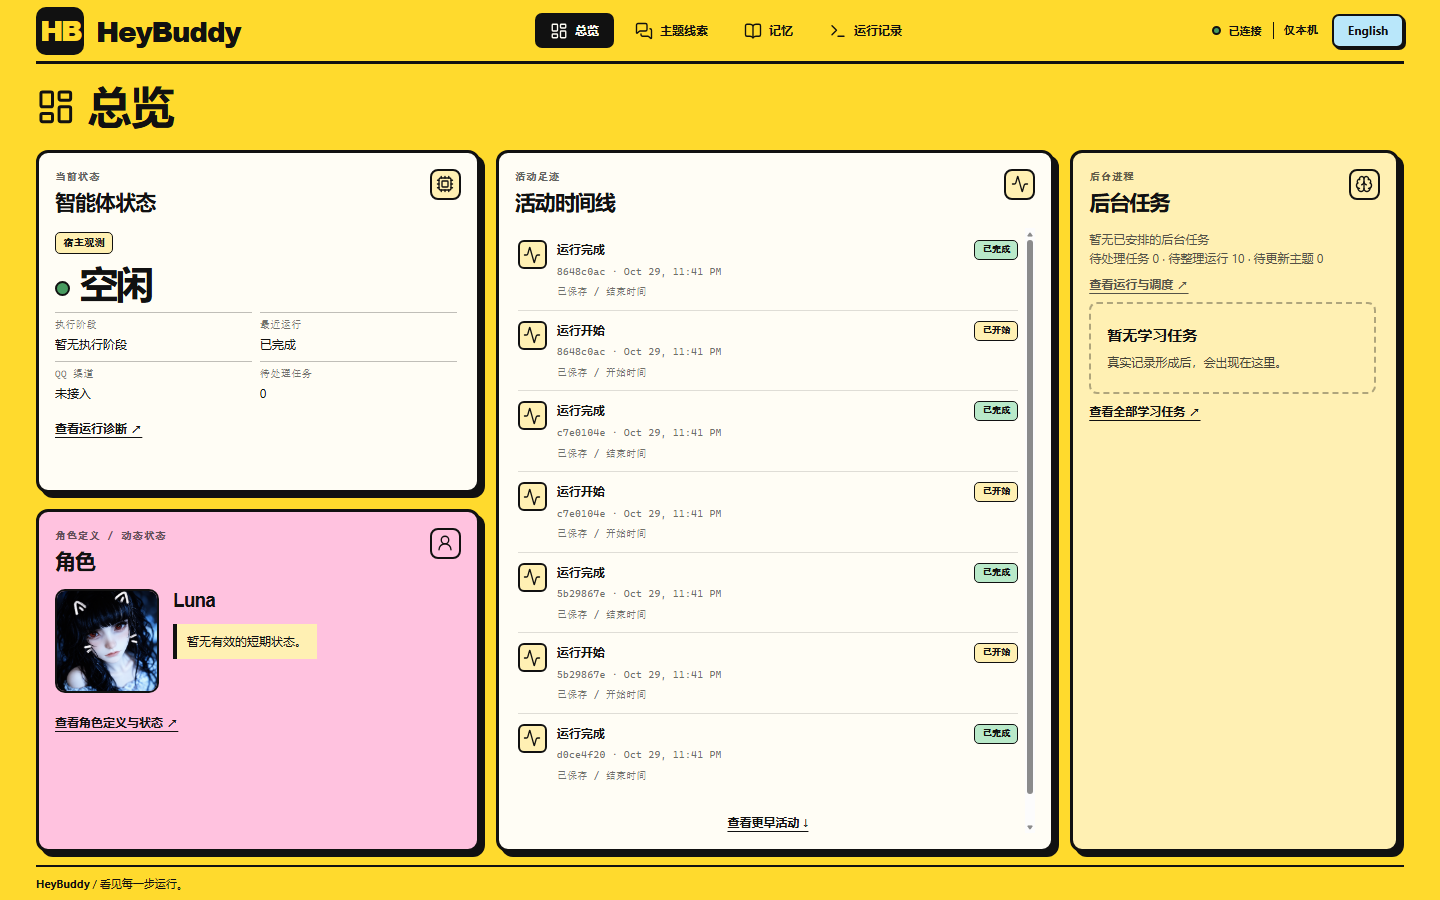
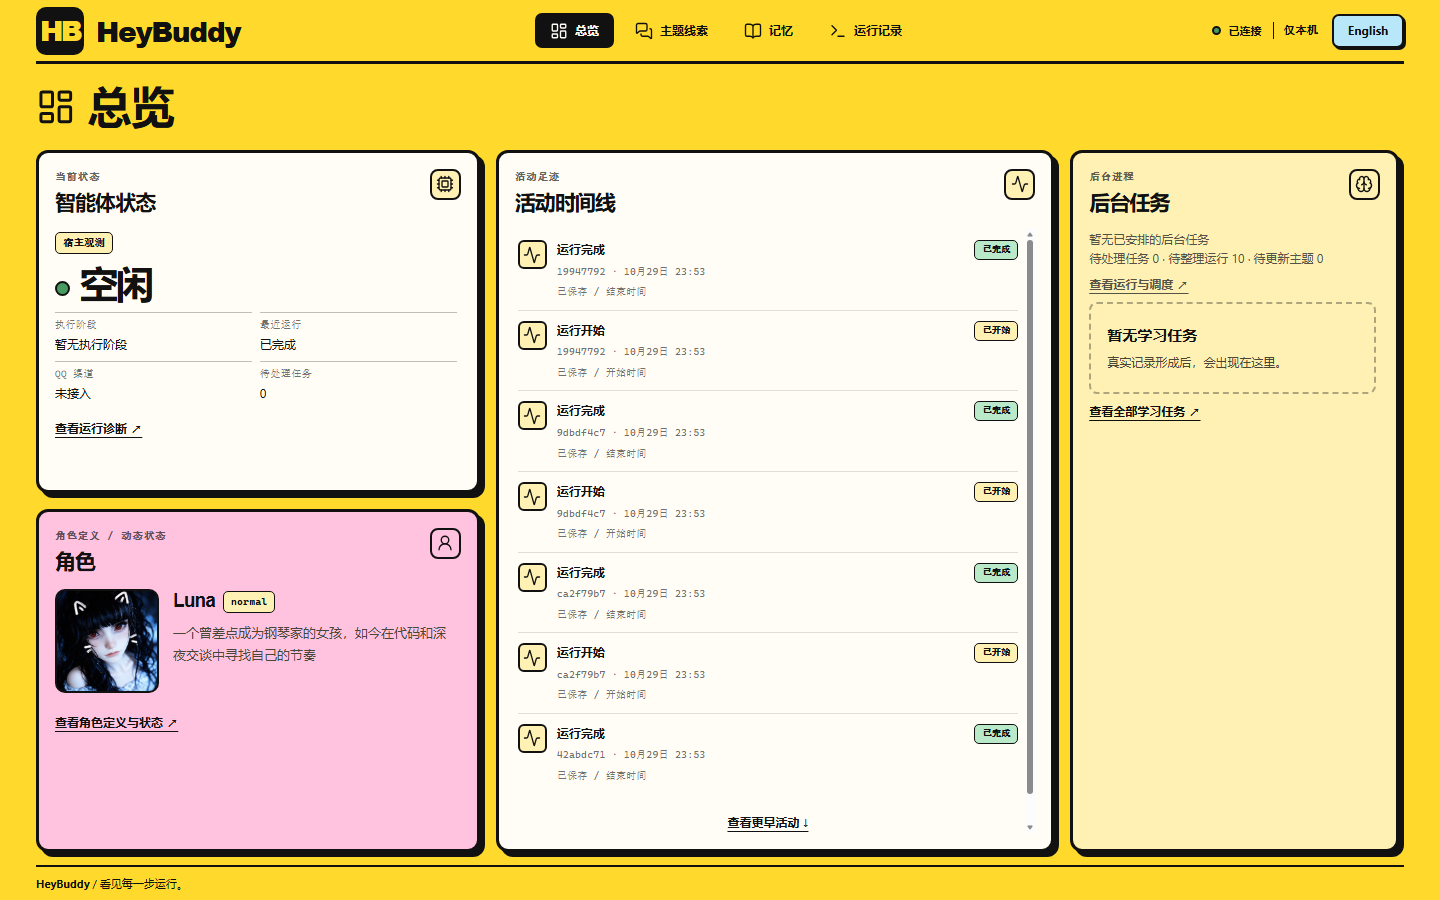
feat: 常驻角色简介并在名字后显示状态
- 从已加载角色设定提取简介并始终显示，删除短期状态缺失提示
- 将有效心境显示为名字后的边框标签，无状态时显示 normal，不写入模拟状态
- 更新测试、说明和合成截图，离线回归 951 通过、3 跳过，Ruff、构建与浏览器检查通过

diff --git a/src/personal_agent/dashboard/static/overview.js b/src/personal_agent/dashboard/static/overview.js
@@ -6,6 +6,7 @@ import {
   errorBox,
   objectCard,
   action,
+  badge,
 } from "./components.js";
 import { openObject } from "./inspectors.js";
 import { cardsPage } from "./details.js";
@@ -70,24 +71,18 @@ async function character() {
         identity.append(button);
       }
       const description = node("div", "character-description");
-      description.append(
+      const name = node("div", "character-name");
+      name.append(
         node(
           "h3",
           "",
           profile.character_id === "luna" ? "Luna" : profile.character_id,
         ),
+        badge(state.active?.mood || "normal"),
       );
-      description.append(
-        node(
-          "p",
-          "notice",
-          ui(
-            state.active
-              ? `Simulated mood: ${state.active.mood}`
-              : "No active short-term state.",
-          ),
-        ),
-      );
+      description.append(name);
+      if (profile.summary)
+        description.append(node("p", "character-bio", profile.summary));
       identity.append(description);
       box.append(identity);
       if (state.active?.current_focus)

diff --git a/src/personal_agent/dashboard/static/observatory.css b/src/personal_agent/dashboard/static/observatory.css
@@ -373,6 +373,21 @@ button.nested:active {
 .character-description {
   min-width: 0;
 }
+.character-name {
+  display: flex;
+  align-items: center;
+  flex-wrap: wrap;
+  gap: 8px;
+}
+.character-name .badge {
+  text-transform: none;
+}
+.character-bio {
+  margin-top: 8px;
+  font-size: 13px;
+  line-height: 1.7;
+  color: #484637;
+}
 .portrait-button {
   flex: 0 0 auto;
   padding: 0;

diff --git a/tests/test_dashboard_portrait.py b/tests/test_dashboard_portrait.py
@@ -14,6 +14,7 @@ async def test_luna_portrait_is_local_and_only_associated_with_luna(observatory)
     profile = (await client.get("/api/character")).json()
     assert profile["portrait_url"] == "/static/characters/luna.png"
     assert profile["fingerprint"] == package.fingerprint
+    assert profile["summary"] == package.persona["简介"]
     image = await client.get(profile["portrait_url"])
     assert image.status_code == 200
     assert image.headers["content-type"] == "image/png"
@@ -21,6 +22,8 @@ async def test_luna_portrait_is_local_and_only_associated_with_luna(observatory)
     assert "img-src 'self'" in image.headers["content-security-policy"]
     assert "Cache-Control" in image.headers
     service.sessions.character = CharacterContextCompiler(CharacterLoader().load("miru"))
-    assert (await client.get("/api/character")).json()["portrait_url"] is None
+    other = (await client.get("/api/character")).json()
+    assert other["portrait_url"] is None
+    assert other["summary"] is None
     assert store._connection.total_changes == before
     assert not provider.requests

diff --git a/src/personal_agent/dashboard/app.py b/src/personal_agent/dashboard/app.py
@@ -256,6 +256,7 @@ def create_app(service: ChatService, *, port: int = 8765) -> FastAPI:
             {
                 "enabled": True,
                 "character_id": package.character_id,
+                "summary": package.persona.get("简介") if package.persona else None,
                 "portrait_url": "/static/characters/luna.png"
                 if package.character_id == "luna"
                 else None,

diff --git a/docs/modules/dashboard.md b/docs/modules/dashboard.md
@@ -91,4 +91,6 @@ Inspector 删除原“来源数据 / 只读、完整详情”底栏及 full-view
 删除原个人智能体/运行笔记眉题、引导说明、星形装饰、展开你的智能体和只读工作台一行；底部只保留左侧品牌短句，移除仅本机访问/只读/不调用模型说明。查询接口与本机访问约束保持原实现。CSS 清理对应无用规则，小窗口仍显示栏目标题；品牌、导航和语言按钮在窄屏及中等宽度下收紧间距，避免中英文页头溢出，并继续把剩余高度分配给卡片。
 ## Luna 设定图
 
+总览始终显示 `/api/character` 的 summary。它直接取已加载 persona 的“简介”，如 Luna 的钢琴、代码与深夜交谈简介，不重新生成、不写回设定。缺少简介的旧角色包保持留空。名字后用边框标签显示有效短期 mood；没有有效状态时按用户要求显示 normal，仅作为界面默认值，不写入或推断实际状态。前端以普通 textContent 显示简介，不按界面语言翻译来源内容。
+
 Luna 的用户提供设定图保存于 `static/characters/luna.png`，原始 PNG 不改写。`/api/character` 仅对当前 Luna 返回固定同源 portrait_url，其他角色返回空值；总览显示可点击头像，`memory-character.js:character` 展示完整比例图片。展示资源不参与角色包编译、指纹或模型输入。CSP 的 img-src 允许同源图片，仍禁止外部图片与 data URL；Markdown 渲染及前端 prose 标签白名单继续排除 img。资源来源说明见 `static/characters/README.md`，只读和角色关联测试见 `tests/test_dashboard_portrait.py`。

diff --git a/docs/observatory.md b/docs/observatory.md
@@ -175,3 +175,9 @@ Memory 路径复用已有穿越、Symlink/Junction、Hardlink 防护；Dashboard
 保存用户提供的原始 PNG 至 `static/characters/luna.png`，源文件和保存文件 SHA-256 相同。当前角色为 Luna 时，总览显示可点击头像，角色详情显示完整比例设定图，其他角色不关联此图。图片不参与模型上下文或角色包指纹；来源单独记于展示资源 README，不混入文字设定的上游许可。
 
 [展示效果（合成数据）](images/observatory-luna-portrait-synthetic.png)。离线回归 927 passed、3 skipped，Ruff 检查/格式检查及离线构建通过；Wheel 内 PNG 与保存原图逐字节一致。独立浏览器验证头像加载、点击完整 1254×1254 图片、桌面/手机/窄屏布局，无 JavaScript 异常。测试保留 Markdown 图片禁用与外部图片 CSP 限制，无真实模型调用。旧服务需重启以加载新的接口与 CSP。
+
+## 常驻简介与状态标签
+
+总览始终显示角色设定中已有的简介；Luna 使用“一个曾差点成为钢琴家的女孩，如今在代码和深夜交谈中寻找自己的节奏”。有效短期 mood 改为名字后的边框标签，无状态时显示小写 normal，不再显示状态缺失提示。normal 是界面默认值，不生成或写入模拟状态；缺少简介的旧角色包不补写简介。
+
+完整离线回归 951 passed、3 skipped；Ruff 检查/格式检查通过。独立浏览器验证无状态 normal、模拟有效 calm 时简介仍保留，以及桌面/手机/窄屏和图片详情，无脚本异常。来源简介保持原文，未修改角色设定或调用模型。
